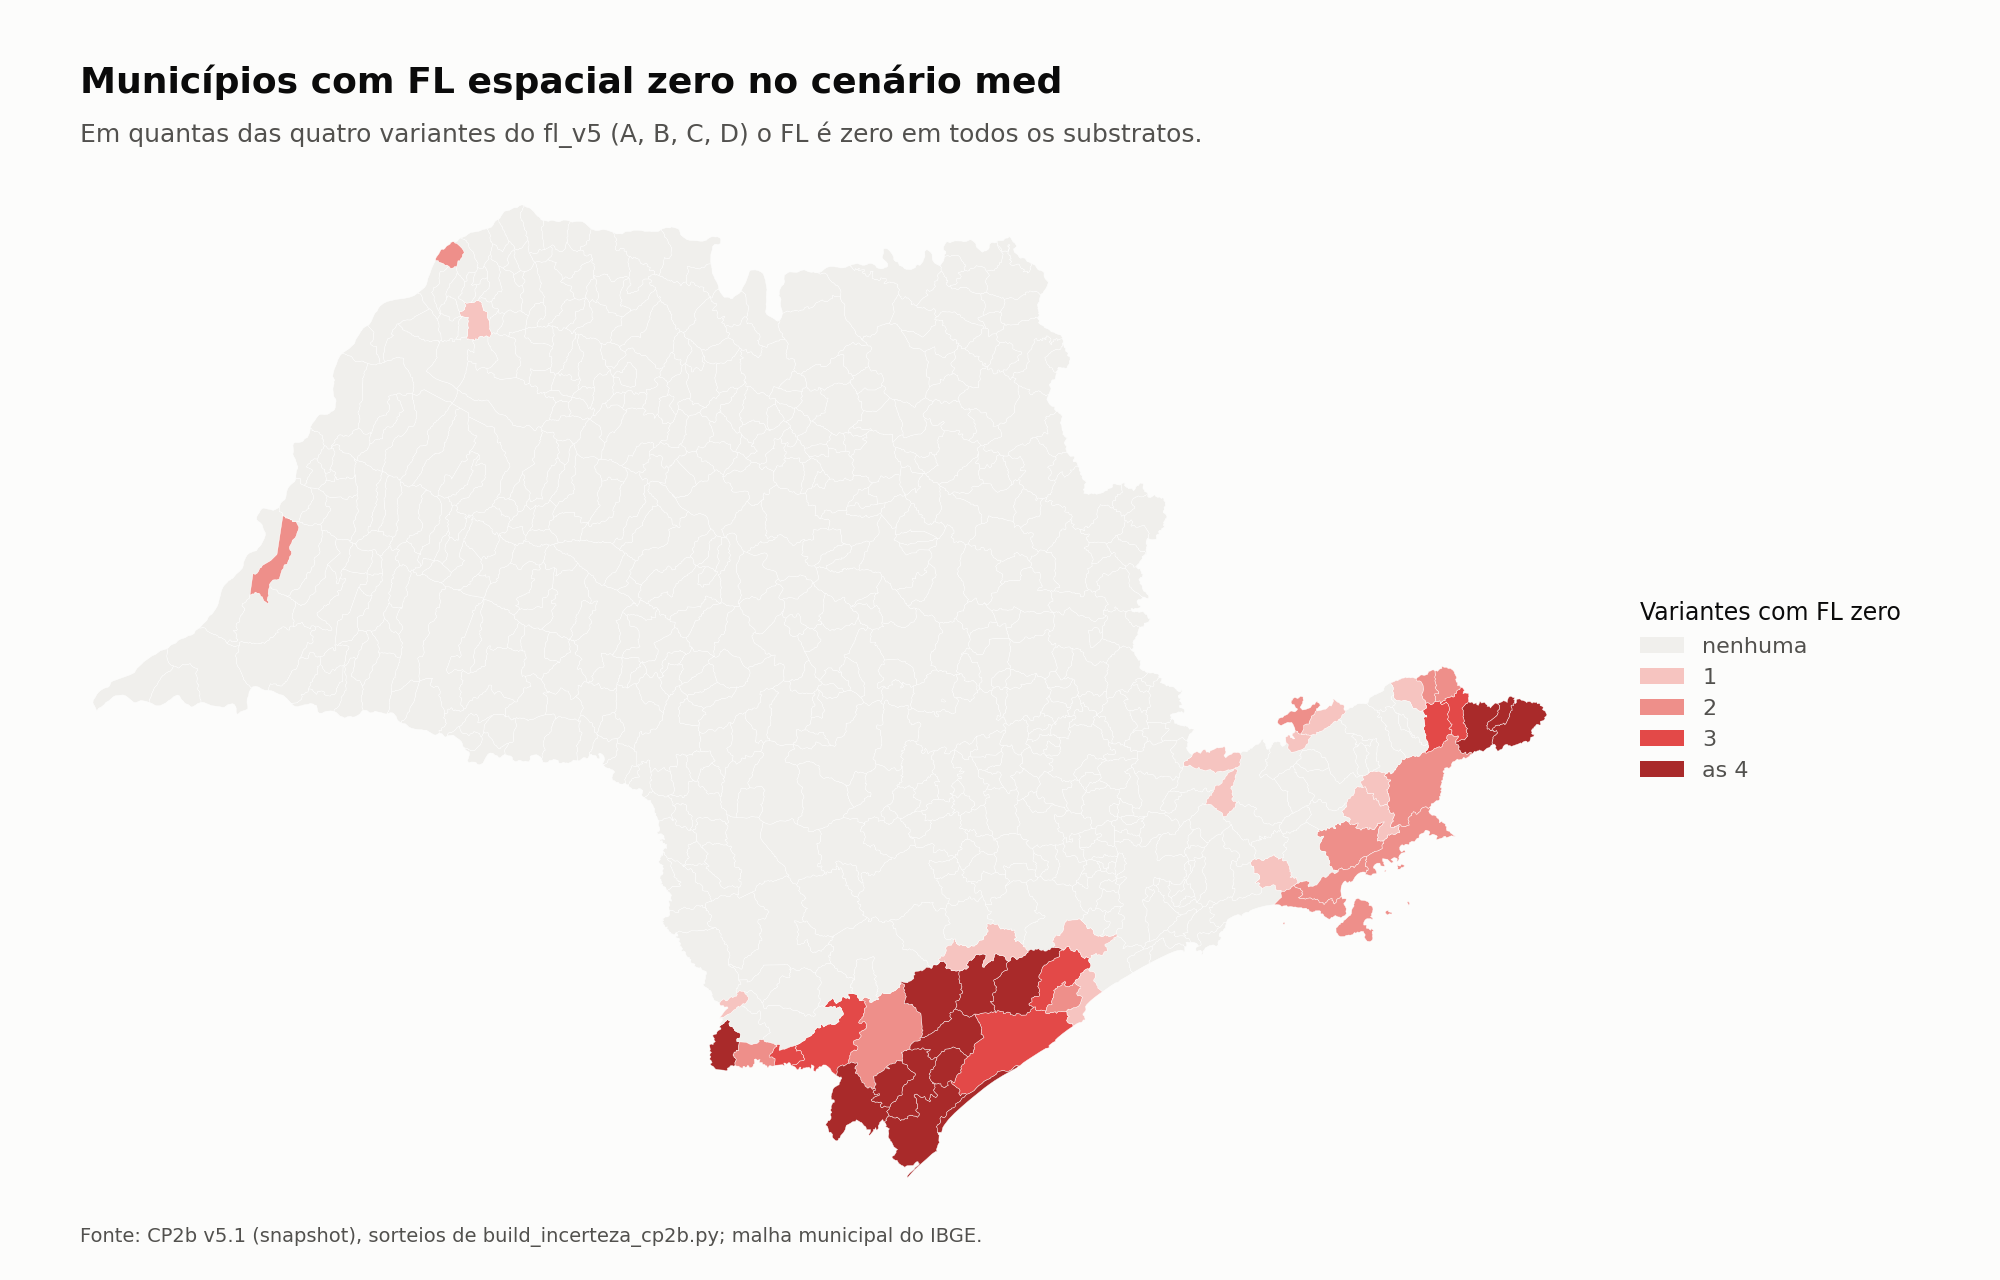
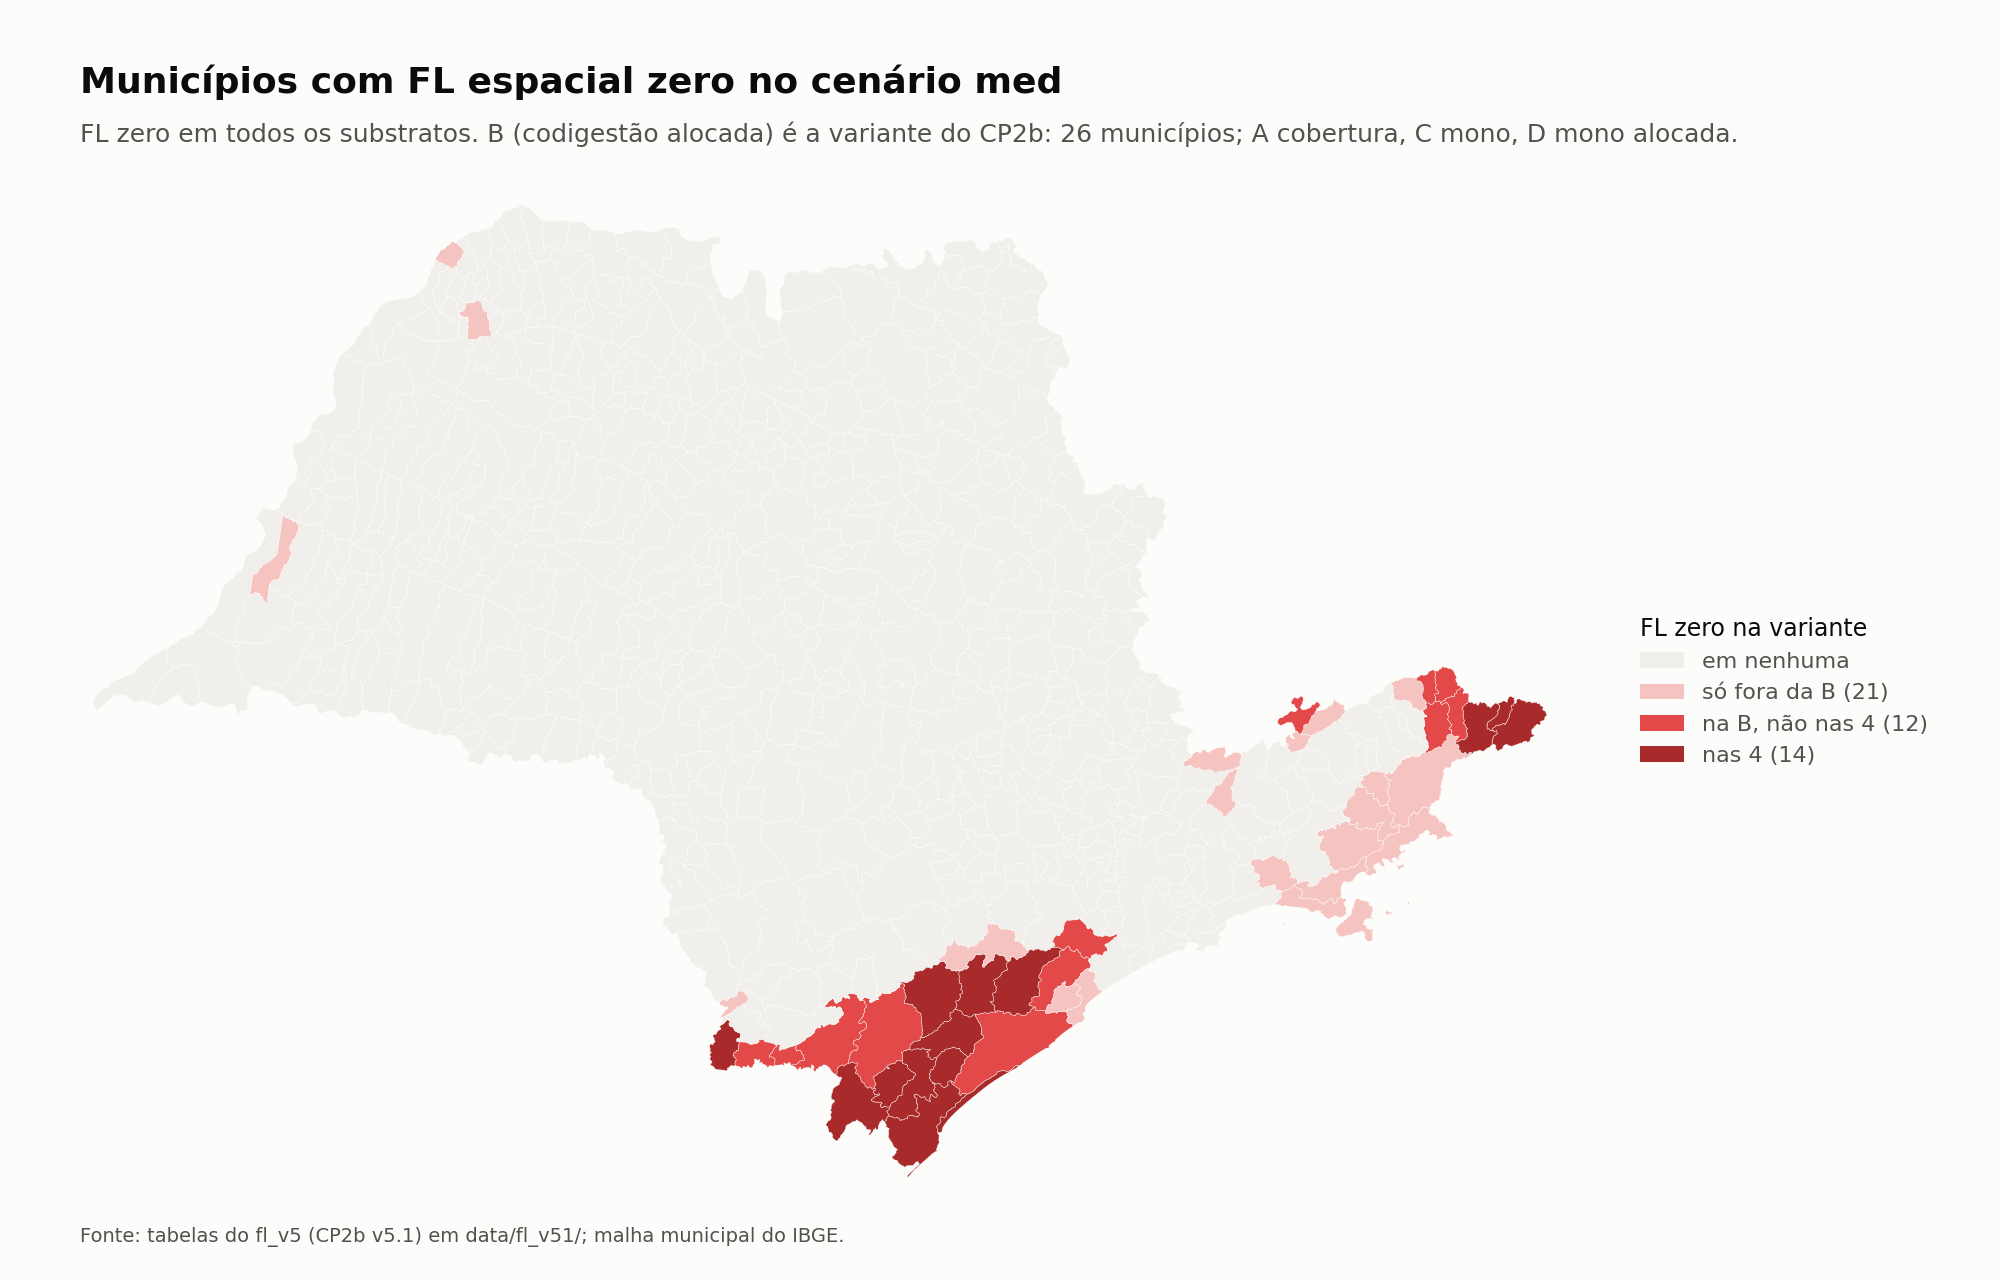
fl_espacial: mapa refeito com as classes da variante B

diff --git a/outputs/fl_espacial/RELATORIO.md b/outputs/fl_espacial/RELATORIO.md
@@ -42,7 +42,7 @@
 
 Quase zero no B med (maior FL entre os substratos acima de 0 e até 0,01): Tapiraí (0,0000); Campos do Jordão (0,0003); Bertioga (0,0004); São Lourenço da Serra (0,0006); Natividade da Serra (0,0018); Ubatuba (0,0023); Joanópolis (0,0036).
 
-Malha: API de malhas do IBGE (v3): https://servicodados.ibge.gov.br/api/v3/malhas/estados/35?formato=application/vnd.geo+json&qualidade=intermediaria&intrarregiao=municipio (sha256 a9296e20334d…). Mapa: `mapa_zeros_variantes.png`.
+Malha: API de malhas do IBGE (v3): https://servicodados.ibge.gov.br/api/v3/malhas/estados/35?formato=application/vnd.geo+json&qualidade=intermediaria&intrarregiao=municipio (sha256 a9296e20334d…). No mapa, 14 municípios zeram nas quatro variantes, 12 na B e não em todas, e 21 só fora da B. Mapa: `mapa_zeros_variantes.png`.
 
 ## 3. Por que os municípios zeram, em km (B, med, palha nas usinas)
 
